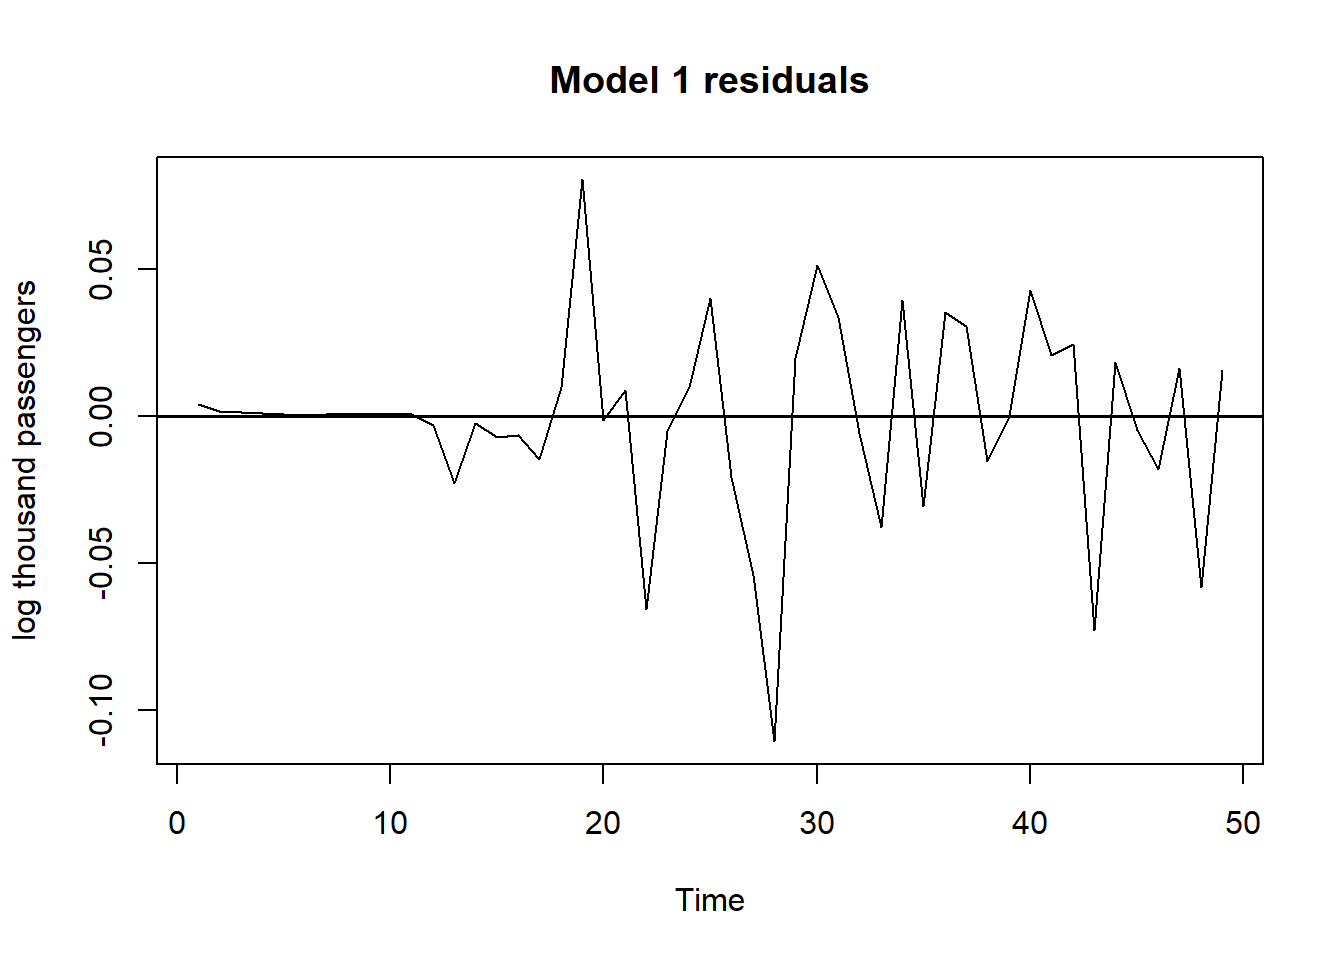
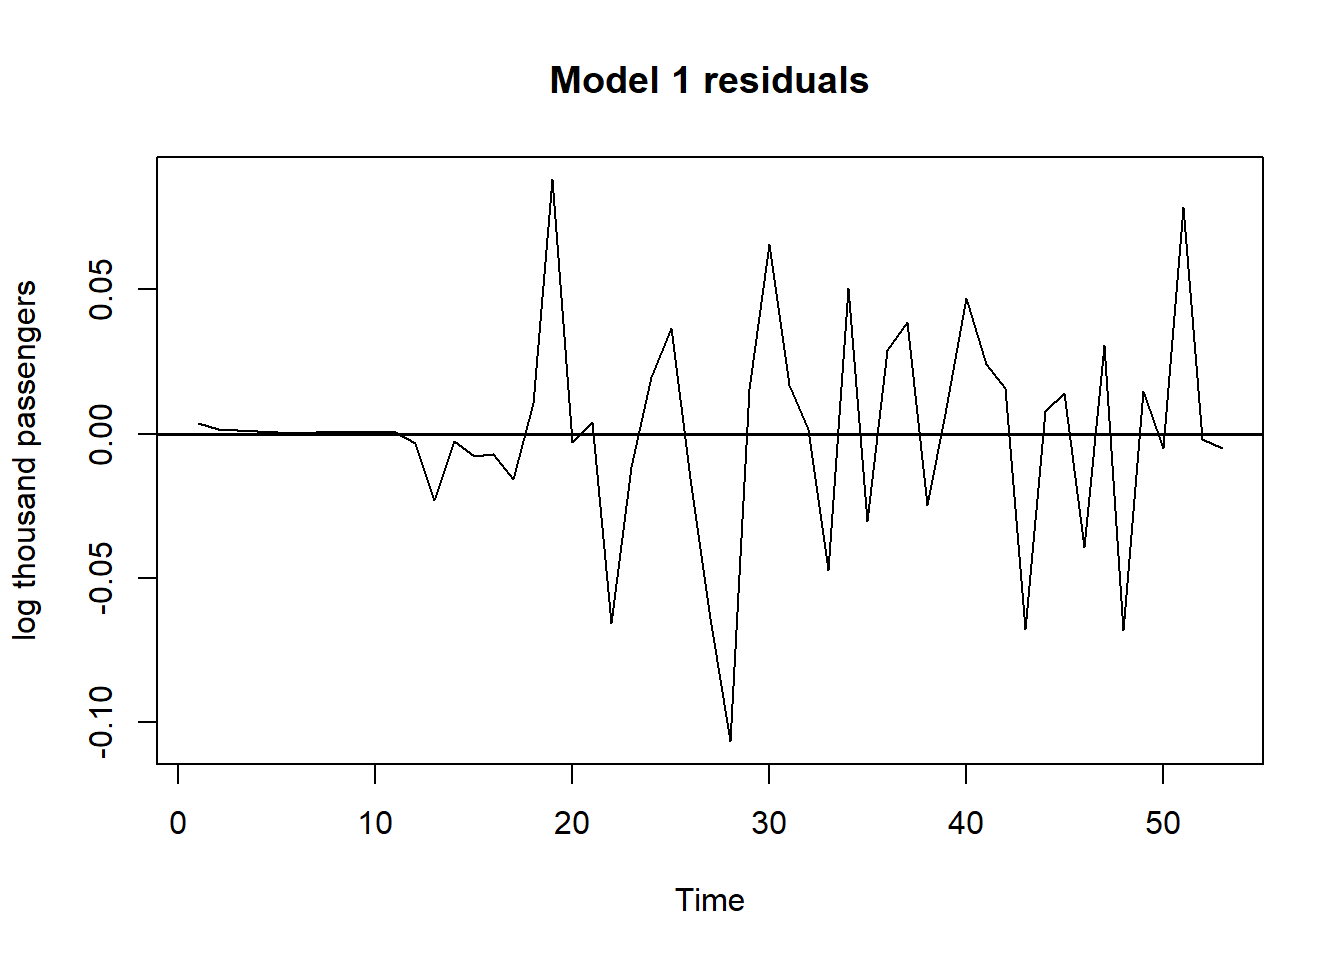
Minor update

diff --git a/content/post/2018-11-10-arima-from-scratch.html b/content/post/2018-11-10-arima-from-scratch.html
@@ -139,7 +139,7 @@ A graphic representation of this process is shown in Rob J Hyndman’s blog post
 i &lt;- 36
 MSE1 &lt;- c()
 
-while(i &lt; 50){
+while(i &lt; length(log_dat)){
   # Train the model with i observations
   m1 &lt;- arima(log_dat[1:i], 
               order = c(1, 1, 1), 
@@ -155,14 +155,14 @@ while(i &lt; 50){
 
 # Untransform data. Back to the original scale
 exp(mean(MSE1))</code></pre>
-<pre><code>## [1] 1.001412</code></pre>
+<pre><code>## [1] 1.001494</code></pre>
 <pre class="r"><code>################################################################################
 # CV for model 2
 ################################################################################
 i &lt;- 36
 MSE2 &lt;- c()
 
-while(i &lt; 50){
+while(i &lt; length(log_dat)){
   # Train the model with i observations
   m2 &lt;- arima(log_dat[1:i], 
               order = c(1, 1, 0), 
@@ -179,8 +179,8 @@ while(i &lt; 50){
 
 # Untransform data. Back to the original scale
 exp(mean(MSE2))</code></pre>
-<pre><code>## [1] 1.001414</code></pre>
-<p>The MSE obtained with CV is slightly better for model 1.</p>
+<pre><code>## [1] 1.001469</code></pre>
+<p>The MSE obtained with CV is slightly better for model 2.</p>
 <p>Now we are going to use the function <code>sarima()</code> from package <strong>astsa</strong>. This function is basically a wraper of <code>arima()</code>, but additionally it returns an object called <strong>ttable</strong> that has the results of t-tests performed on each of the coefficients. The ttable is also printed in the summary of the model. Using <code>sarima()</code> from astsa package:</p>
 <p><strong>Model 1</strong></p>
 <pre class="r"><code># Model_1 fitting
@@ -278,11 +278,11 @@ res_acf &lt;- acf2(m1$residuals,
 <pre class="r"><code># Coefficients estimates
 m1$coef</code></pre>
 <pre><code>##        ar1        ma1       sar1 
-## -0.7914485  0.9999730 -0.4880439</code></pre>
+## -0.1251406  0.2365604 -0.4286284</code></pre>
 <pre class="r"><code># Coefficients&#39; standard error
 sqrt(diag(m1$var.coef))</code></pre>
-<pre><code>##        ar1        ma1       sar1 
-## 0.12768890 0.09386269 0.16409083</code></pre>
+<pre><code>##       ar1       ma1      sar1 
+## 0.5888489 0.5596379 0.1568357</code></pre>
 </div>
 <div id="forecast" class="section level2">
 <h2>Forecast</h2>

diff --git a/public/2018/12/31/arima-from-scratch/index.html b/public/2018/12/31/arima-from-scratch/index.html
@@ -203,7 +203,7 @@ A graphic representation of this process is shown in Rob J Hyndman’s blog post
 i &lt;- 36
 MSE1 &lt;- c()
 
-while(i &lt; 50){
+while(i &lt; length(log_dat)){
   # Train the model with i observations
   m1 &lt;- arima(log_dat[1:i], 
               order = c(1, 1, 1), 
@@ -219,14 +219,14 @@ while(i &lt; 50){
 
 # Untransform data. Back to the original scale
 exp(mean(MSE1))</code></pre>
-<pre><code>## [1] 1.001412</code></pre>
+<pre><code>## [1] 1.001494</code></pre>
 <pre class="r"><code>################################################################################
 # CV for model 2
 ################################################################################
 i &lt;- 36
 MSE2 &lt;- c()
 
-while(i &lt; 50){
+while(i &lt; length(log_dat)){
   # Train the model with i observations
   m2 &lt;- arima(log_dat[1:i], 
               order = c(1, 1, 0), 
@@ -243,8 +243,8 @@ while(i &lt; 50){
 
 # Untransform data. Back to the original scale
 exp(mean(MSE2))</code></pre>
-<pre><code>## [1] 1.001414</code></pre>
-<p>The MSE obtained with CV is slightly better for model 1.</p>
+<pre><code>## [1] 1.001469</code></pre>
+<p>The MSE obtained with CV is slightly better for model 2.</p>
 <p>Now we are going to use the function <code>sarima()</code> from package <strong>astsa</strong>. This function is basically a wraper of <code>arima()</code>, but additionally it returns an object called <strong>ttable</strong> that has the results of t-tests performed on each of the coefficients. The ttable is also printed in the summary of the model. Using <code>sarima()</code> from astsa package:</p>
 <p><strong>Model 1</strong></p>
 <pre class="r"><code># Model_1 fitting
@@ -342,11 +342,11 @@ res_acf &lt;- acf2(m1$residuals,
 <pre class="r"><code># Coefficients estimates
 m1$coef</code></pre>
 <pre><code>##        ar1        ma1       sar1 
-## -0.7914485  0.9999730 -0.4880439</code></pre>
+## -0.1251406  0.2365604 -0.4286284</code></pre>
 <pre class="r"><code># Coefficients&#39; standard error
 sqrt(diag(m1$var.coef))</code></pre>
-<pre><code>##        ar1        ma1       sar1 
-## 0.12768890 0.09386269 0.16409083</code></pre>
+<pre><code>##       ar1       ma1      sar1 
+## 0.5888489 0.5596379 0.1568357</code></pre>
 </div>
 <div id="forecast" class="section level2">
 <h2>Forecast</h2>
